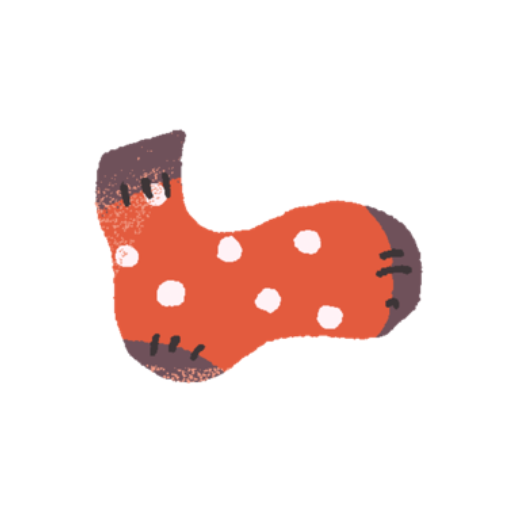
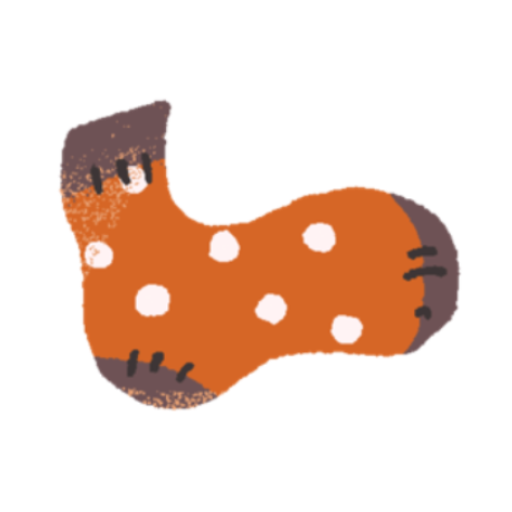
Update UI, items, and assets
- Inventory button moved into stage (top-left), changed icon to 📦
- Inventory panel: slide-from-button spring animation
- Item drag: instant grab + delete zone on mousedown (removed 500ms delay)
- Added items: pensil, poop, plant
- Updated background and item images

Changed region(s): [[0.0938, 0.1875, 0.9062, 0.8125]]

diff --git a/renderer/widget/itemManager.js b/renderer/widget/itemManager.js
@@ -57,40 +57,13 @@ class ItemManager {
     this._attachLongPress(el, itemData.id);
   }
 
-  // ── 꾹 누르기 감지 ───────────────────────────────────────
+  // ── 클릭 즉시 드래그 시작 ───────────────────────────────
   _attachLongPress(el, id) {
     el.addEventListener('mousedown', (e) => {
       if (e.button !== 0) return;
       e.preventDefault();
       e.stopPropagation();
-
-      const startX = e.clientX;
-      const startY = e.clientY;
-      let cancelled = false;
-
-      const cancel = () => {
-        cancelled = true;
-        clearTimeout(timer);
-        document.removeEventListener('mousemove', onMoveCheck);
-      };
-
-      const onMoveCheck = (ev) => {
-        if (Math.abs(ev.clientX - startX) > 8 || Math.abs(ev.clientY - startY) > 8) {
-          cancel();
-        }
-      };
-
-      const timer = setTimeout(() => {
-        if (cancelled) return;
-        document.removeEventListener('mousemove', onMoveCheck);
-        document.removeEventListener('mouseup', onUpCancel);
-        this._startDrag(id);
-      }, 500);
-
-      const onUpCancel = () => cancel();
-
-      document.addEventListener('mousemove', onMoveCheck);
-      document.addEventListener('mouseup', onUpCancel, { once: true });
+      this._startDrag(id);
     });
   }
 
@@ -207,7 +180,9 @@ function _emojiFor(assetKey) {
     'juice-pack':  '🧃',
     'socks':       '🧦',
     'apple':       '🍎',
-    'pencil':      '✏',
+    'pensil':      '✏',
+    'poop':        '💩',
+    'plant':       '🌱',
   };
   return map[assetKey] ?? '📦';
 }

diff --git a/renderer/widget/widget.css b/renderer/widget/widget.css
@@ -129,10 +129,10 @@ html, body {
   color: #fff;
 }
 
-/* ── 인벤토리 패널 (상단 슬라이드) ── */
+/* ── 인벤토리 패널 (버튼에서 확장) ── */
 #inventory-panel {
   position: absolute;
-  top: 10px;       /* 상단 여백 */
+  top: 10px;       /* 상단 여백 (🎒 버튼과 나란히) */
   left: 10px;      /* 좌측 여백 */
   right: 10px;     /* 우측 여백 */
   z-index: 30;
@@ -146,17 +146,19 @@ html, body {
   align-items: center;
   overflow-x: auto;
   scrollbar-width: none; /* Firefox */
-  /* 기본: 위로 숨김 */
-  transform: translateY(calc(-100% - 10px));
+  /* 기본: 🎒 버튼 위치(좌상단)에서 축소된 채로 숨김 */
+  transform-origin: top left;
+  transform: scale(0.1);
   opacity: 0;
   pointer-events: none;
-  transition: transform 0.22s ease, opacity 0.22s ease;
+  transition: transform 0.25s cubic-bezier(0.34, 1.56, 0.64, 1),
+              opacity 0.15s ease;
 }
 
 #inventory-panel::-webkit-scrollbar { display: none; }
 
 #inventory-panel.open {
-  transform: translateY(0);
+  transform: scale(1);
   opacity: 1;
   pointer-events: auto;
 }

diff --git a/renderer/widget/index.html b/renderer/widget/index.html
@@ -25,7 +25,7 @@
     <!-- 레이어 3: 캐릭터 -->
     <canvas id="character-canvas"></canvas>
     <!-- 인벤토리 버튼 (좌상단) -->
-    <button id="btn-inventory" title="인벤토리">🎒</button>
+    <button id="btn-inventory" title="인벤토리">📦</button>
     <!-- 인벤토리 패널 (상단에서 슬라이드, JS로 아이템 채움) -->
     <div id="inventory-panel"></div>
     <!-- 삭제 존 (꾹 누르고 드래그 시 나타남) -->

diff --git a/renderer/widget/widget.js b/renderer/widget/widget.js
@@ -78,7 +78,9 @@ const INVENTORY_ITEMS = [
   { assetKey: 'juice-pack',  emoji: '🧃' },
   { assetKey: 'socks',       emoji: '🧦' },
   { assetKey: 'apple',       emoji: '🍎' },
-  { assetKey: 'pencil',      emoji: '✏' },
+  { assetKey: 'pensil',      emoji: '✏' },
+  { assetKey: 'poop',        emoji: '💩' },
+  { assetKey: 'plant',       emoji: '🌱' },
 ];
 
 // 패널 아이템 슬롯 생성
